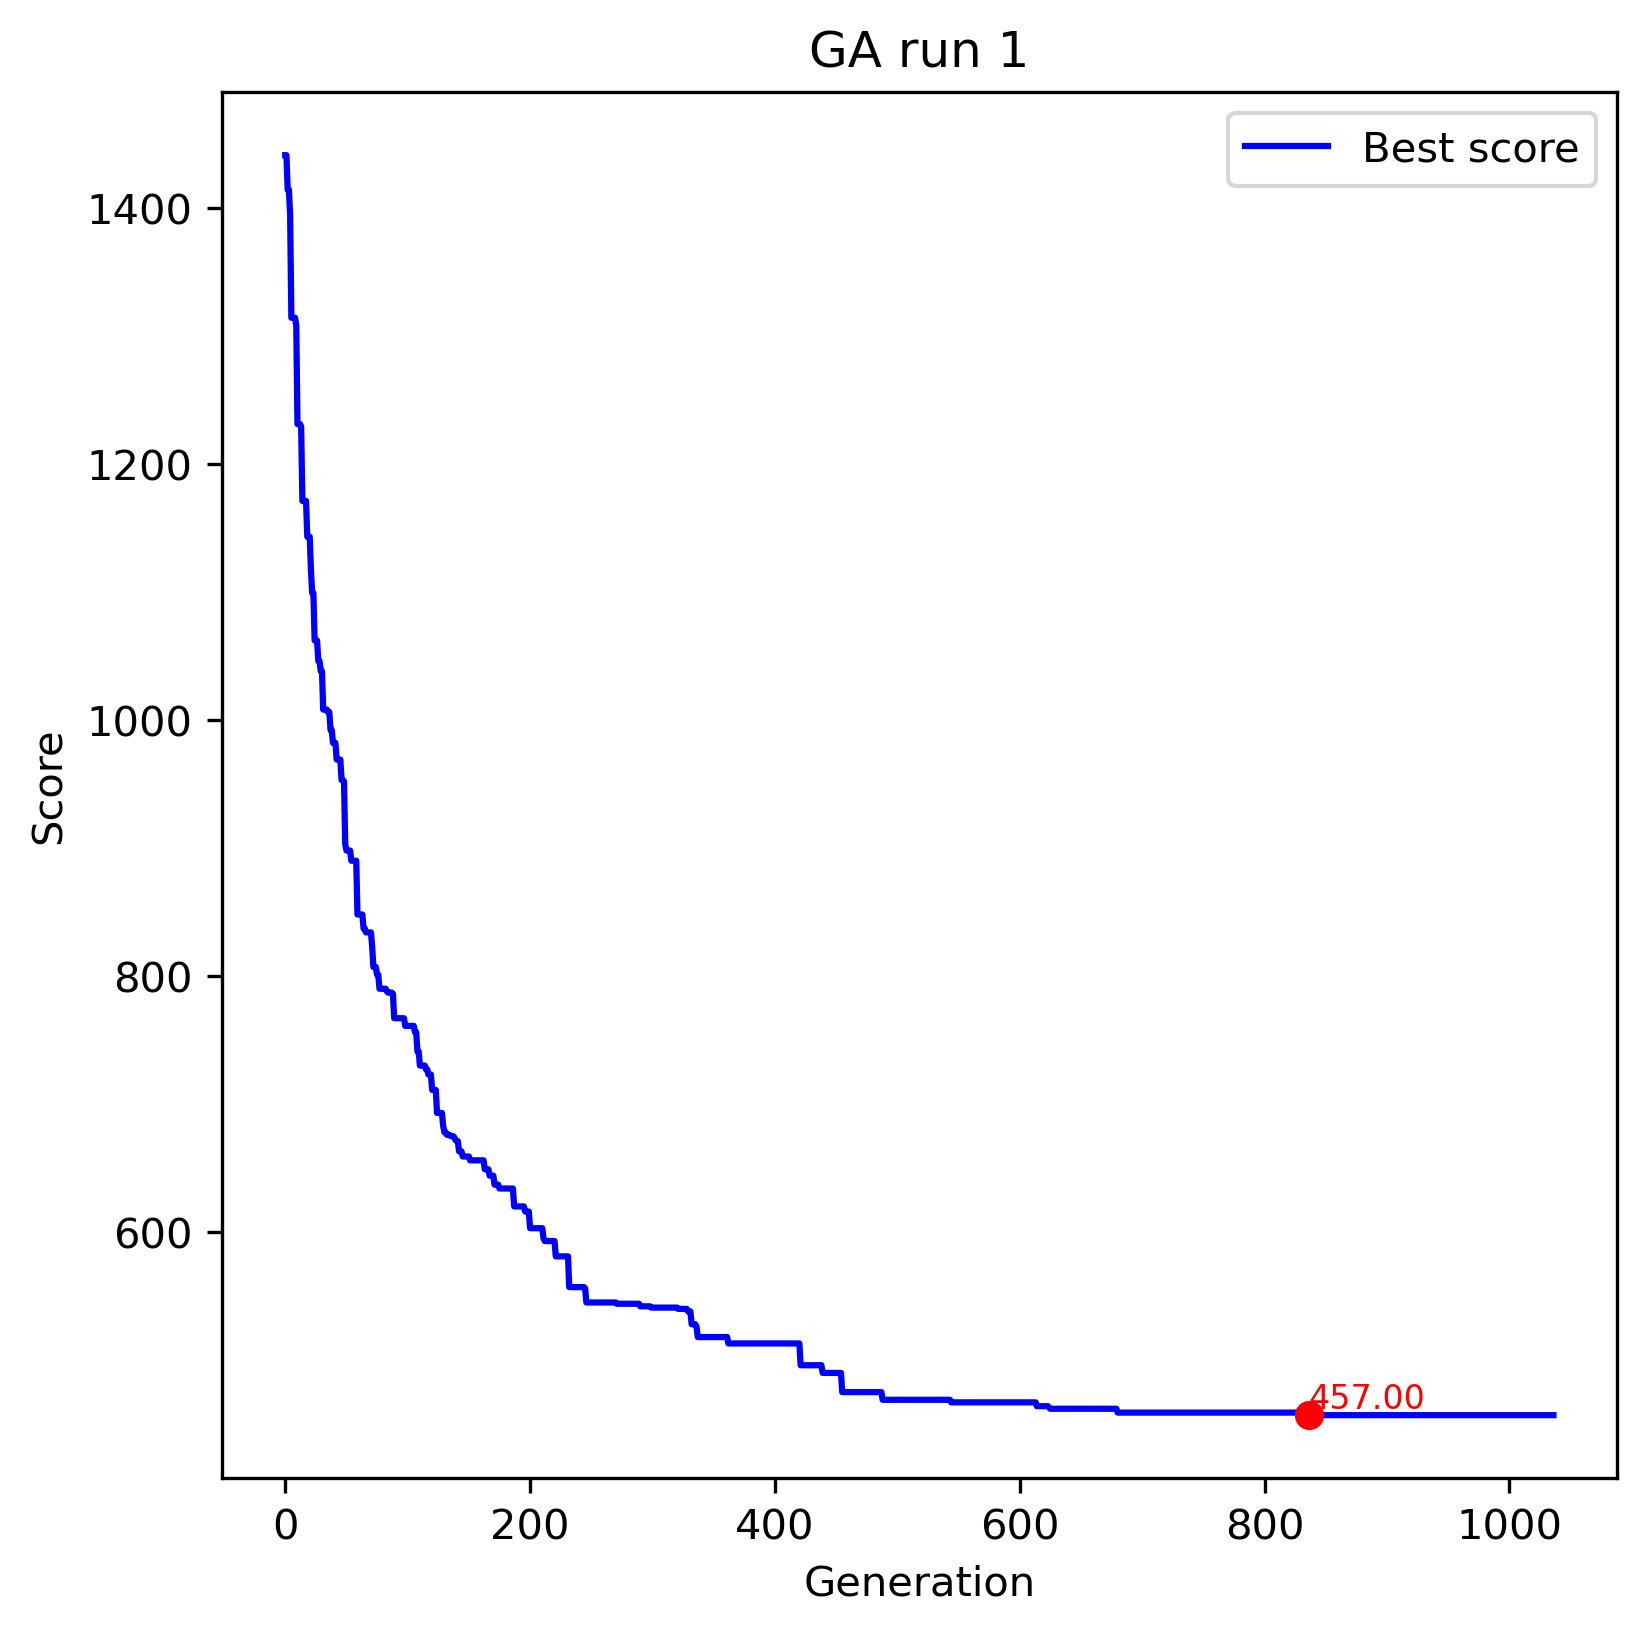
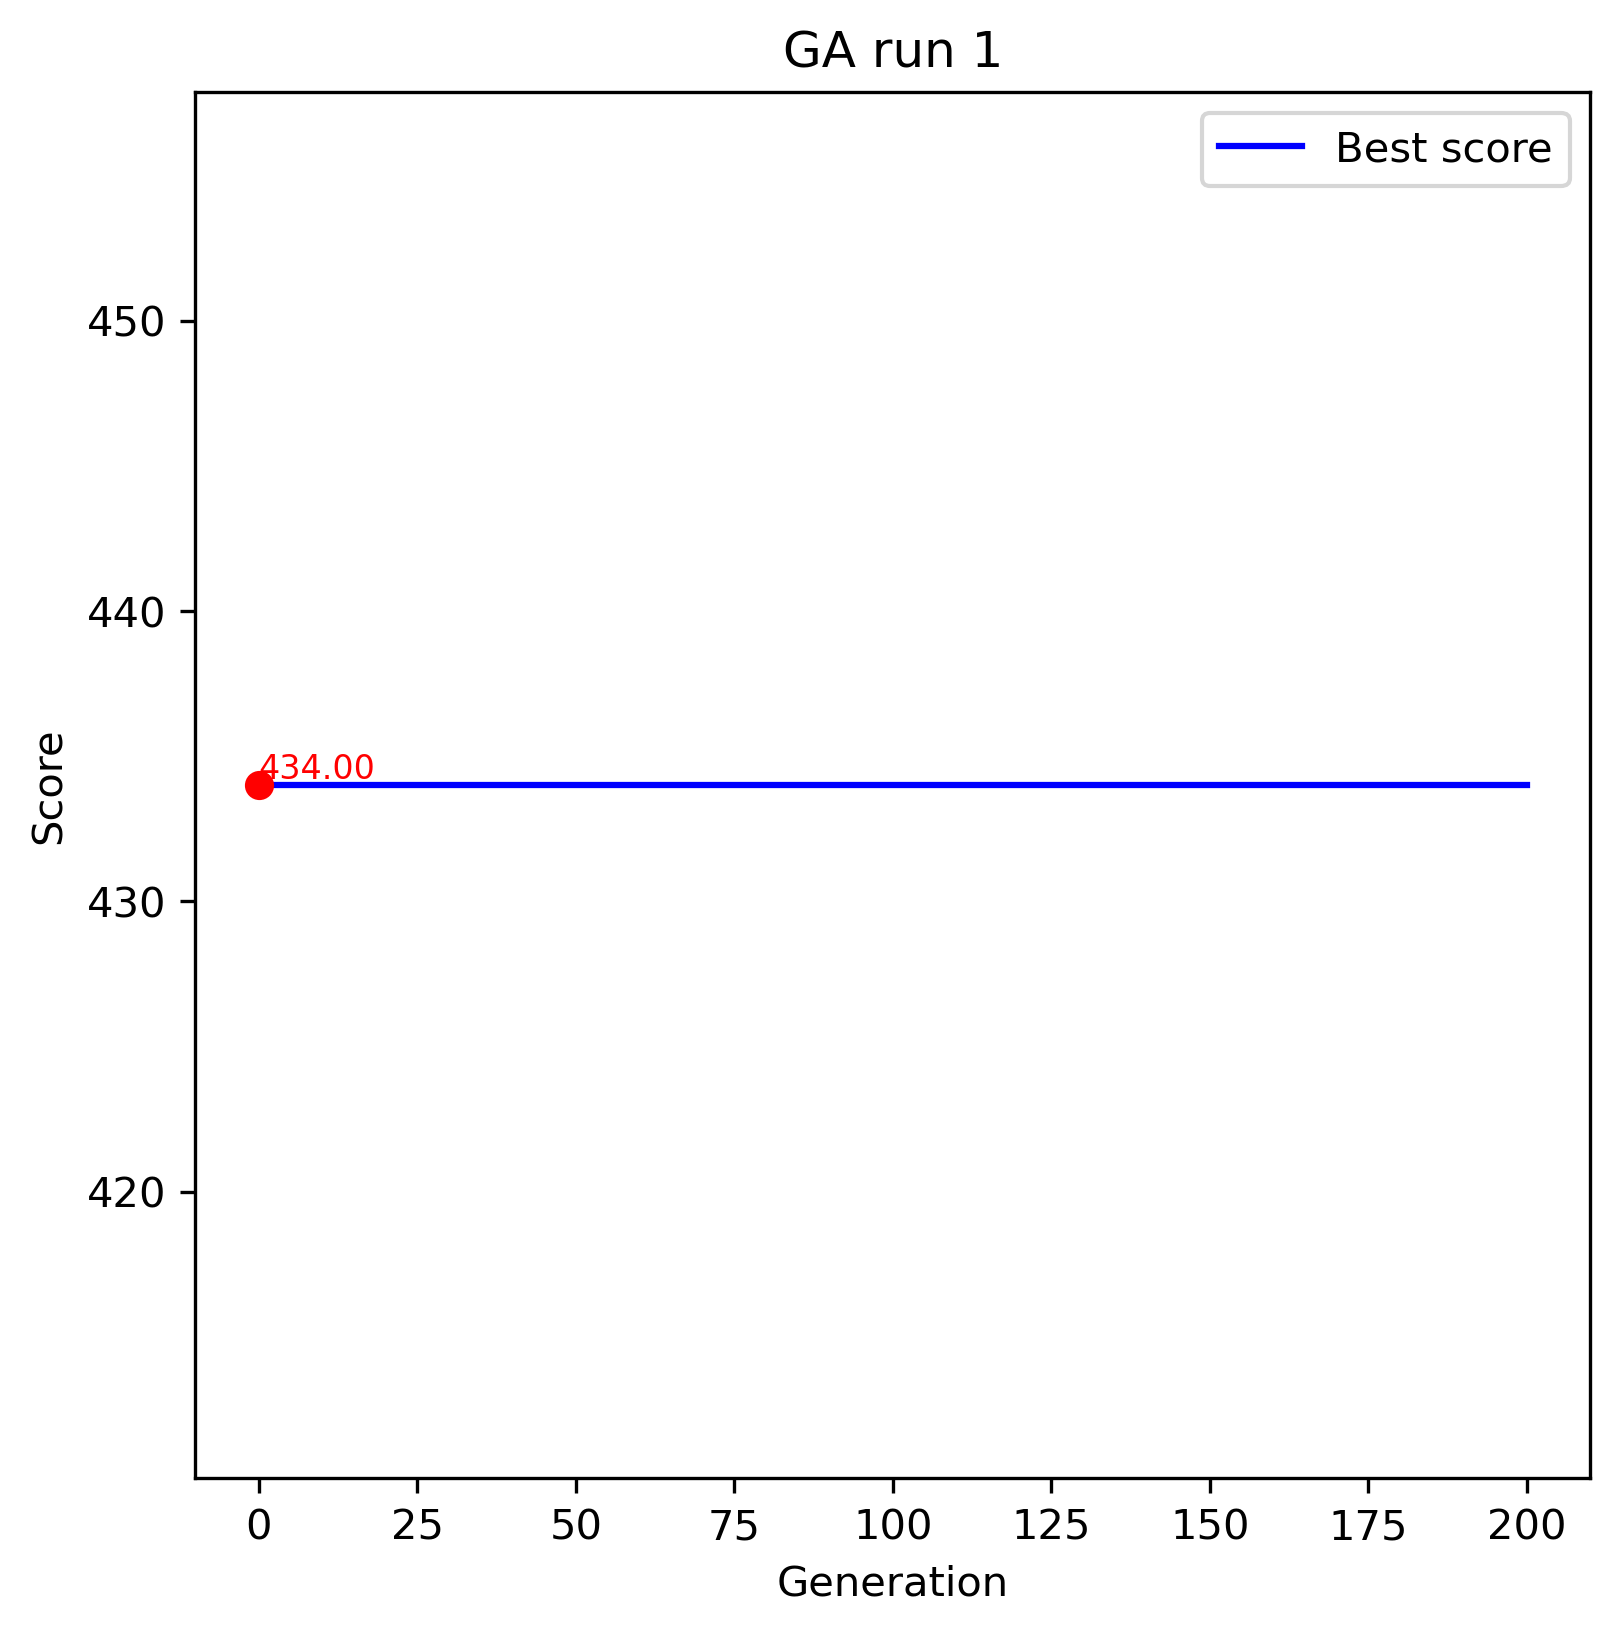
update solve TSP by GA (init population by Greedy)

diff --git a/src/GA/TSP_GA_1.py b/src/GA/TSP_GA_1.py
@@ -12,7 +12,7 @@ if PROJECT_ROOT_STR not in sys.path:
     sys.path.insert(0, PROJECT_ROOT_STR)
     
 from utils.plot import plot_scores, plot_tour
-
+from src.GA.initPopulation import init_population_greedy
 
 # ---------- B1: Khởi tạo quần thể (mỗi cá thể là một hoán vị) ----------
 def init_population(pop_size, num_genes):
@@ -140,7 +140,13 @@ def GA(
     - B5: Dừng khi không cải thiện sau `patience` thế hệ
     """
     n = len(matrix)
-    population = init_population(pop_size, n)
+    population = init_population_greedy(
+        pop_size,
+        num_genes=len(matrix),
+        distance_matrix=matrix,
+        alpha=0.5,       
+        use_2opt=True      
+    )
     best = max(population, key=lambda ind: fitness(ind, matrix))
     best_cost = 1 / fitness(best, matrix)
 
